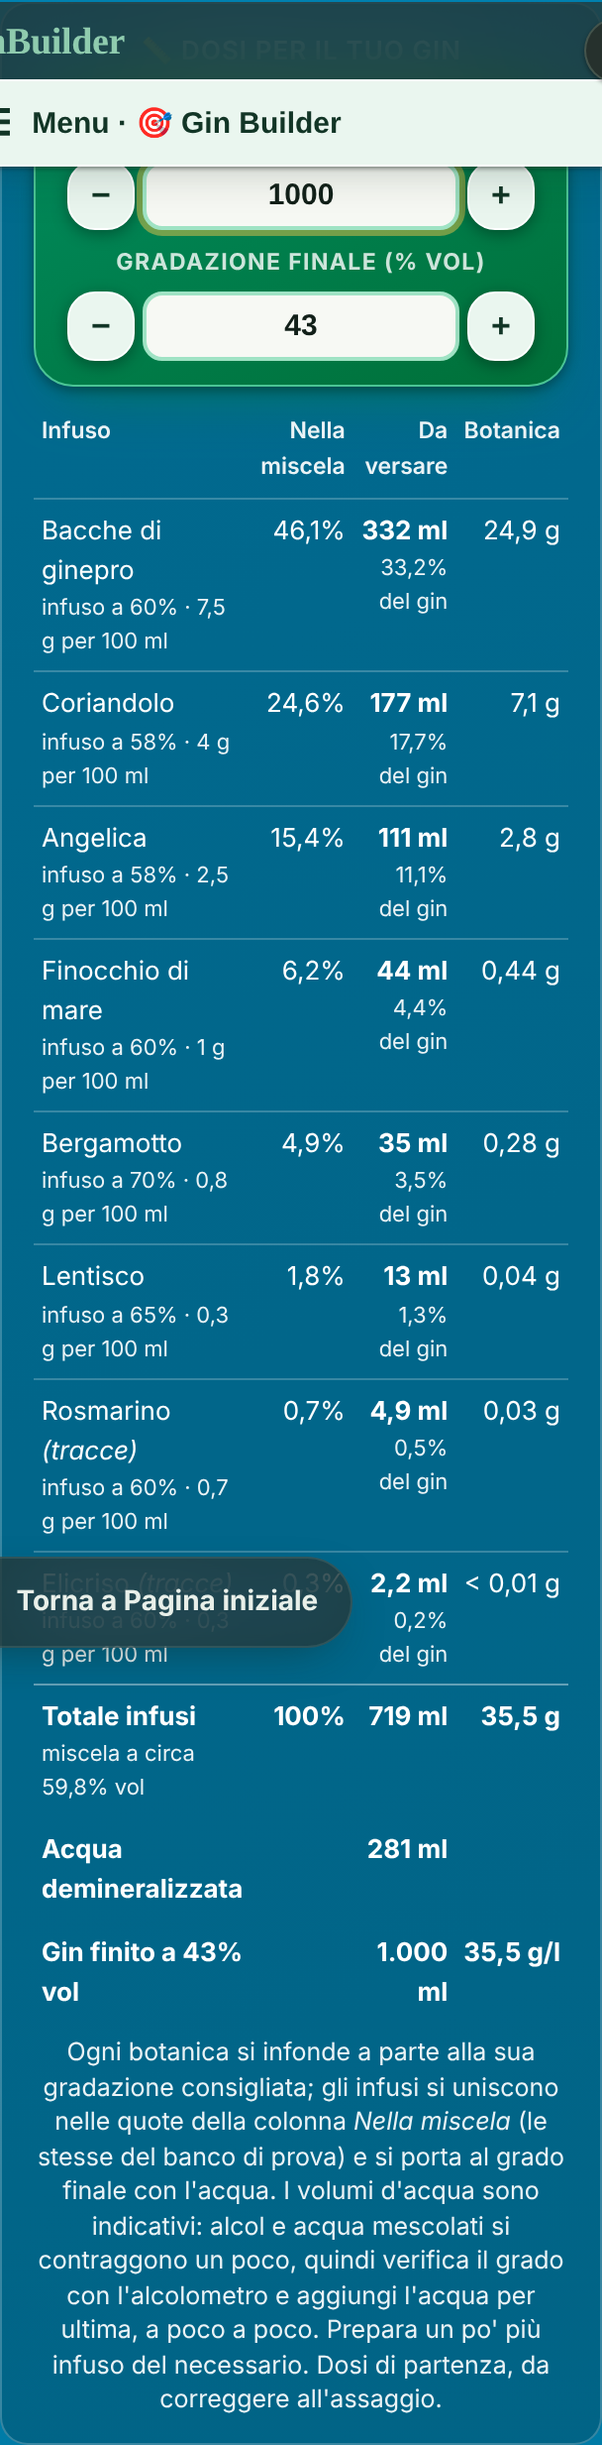
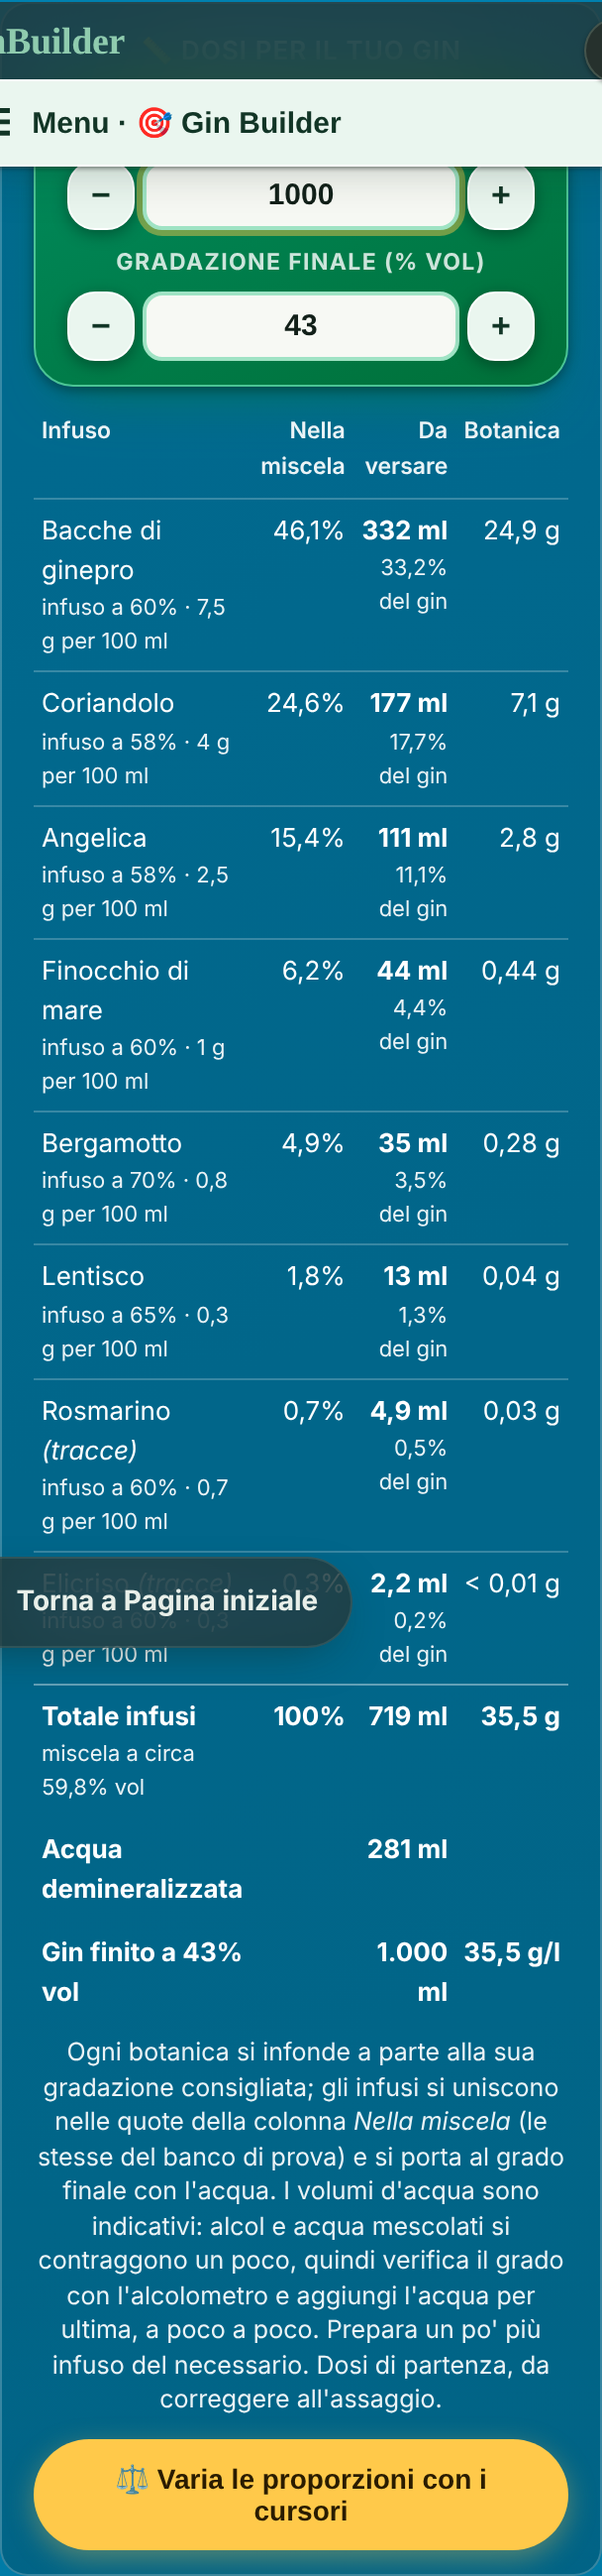
Nuova pagina Proporzioni della ricetta
Cursori per la quota di ogni infuso (le altre si adeguano, lucchetto per
tenerne ferma una), torta, radar di gusto e aroma e radar delle sensazioni
che cambiano insieme rispetto alla ricetta di partenza; ml e grammi per il
volume di gin scelto; invio al banco di prova.

Claude-Session: https://claude.ai/code/session_01EprC9dfrThLCe9VsUBHgpw

diff --git a/index.html b/index.html
@@ -594,6 +594,40 @@ section.panel.active{display:block;animation:panelIn .34s var(--ease) both;}
 }
 .avviso-azioni{display:flex;gap:10px;flex-wrap:wrap;margin-top:22px;justify-content:flex-end;}
 select.sel-fissa{opacity:1;cursor:default;background-image:none;-webkit-appearance:none;appearance:none;}
+/* Proporzioni */
+.pp-head{display:flex;flex-wrap:wrap;align-items:center;justify-content:space-between;gap:8px;margin:6px 0 10px;}
+.pp-tit{font-weight:700;font-size:16px;}
+.pp-azioni{display:flex;flex-wrap:wrap;gap:8px;}
+.pp-grafici{position:sticky;top:var(--pp-top,96px);z-index:5;background:var(--surface);border:1px solid var(--line);border-radius:16px;padding:8px 10px 6px;margin-bottom:12px;box-shadow:0 6px 16px rgba(0,0,0,.18);}
+.pp-scelta{display:flex;gap:6px;justify-content:center;margin-bottom:4px;}
+.pp-tab{flex:1;font:inherit;font-size:12.5px;font-weight:650;padding:5px 4px;border-radius:999px;border:1px solid var(--line);background:transparent;color:var(--ink-soft);cursor:pointer;}
+.pp-tab[aria-pressed="true"]{background:var(--juniper);border-color:var(--juniper);color:#fff;}
+.pp-tre{display:block;}
+.pp-g{display:none;text-align:center;}
+.pp-g.on{display:block;}
+.pp-gt{display:none;font-size:12px;font-weight:650;color:var(--ink-soft);text-transform:uppercase;letter-spacing:.05em;}
+.pp-g svg{width:100%;max-width:300px;height:auto;max-height:min(30vh,240px);display:block;margin:0 auto;}
+.pp-g .radar-wrap{margin:0;}
+@media (min-width:900px){ .pp-g svg{max-height:260px;} }
+.pp-g .radar-sottr-btn, .pp-g .radar-nota, .pp-g .pot-leg, .pp-g .pot-tua{display:none !important;}
+.pp-ginepro{font-size:12.5px;text-align:center;margin-top:2px;}
+@media (min-width:900px){
+  .pp-scelta{display:none;}
+  .pp-tre{display:grid;grid-template-columns:repeat(3,1fr);gap:10px;}
+  .pp-g{display:block;} .pp-gt{display:block;}
+}
+.pp-riga{display:grid;grid-template-columns:14px minmax(0,1fr) auto auto;align-items:center;gap:4px 8px;padding:8px 0;border-bottom:1px solid var(--line);}
+.pp-dot{width:12px;height:12px;border-radius:50%;}
+.pp-nome{font-weight:600;font-size:14px;min-width:0;}
+.pp-nome small{display:block;font-weight:400;color:var(--ink-soft);font-size:11.5px;}
+.pp-val{font-weight:700;font-size:15px;text-align:right;white-space:nowrap;}
+.pp-val small{display:block;font-weight:400;color:var(--ink-soft);font-size:11.5px;}
+.pp-lock{background:none;border:1px solid var(--line);border-radius:10px;padding:4px 7px;font-size:15px;cursor:pointer;opacity:.55;}
+.pp-lock[aria-pressed="true"]{opacity:1;border-color:var(--juniper);}
+.pp-riga input[type=range]{grid-column:1/-1;width:100%;accent-color:var(--pc,var(--juniper));}
+.pp-riga.ferma input[type=range]{opacity:.45;}
+.pp-totali{margin-top:10px;font-size:13.5px;}
+.pp-totali .mix-line{display:flex;justify-content:space-between;gap:10px;padding:4px 0;}
 .dosi-box{text-align:left;}
 .dosi-box .radar-title{text-align:center;}
 .cond-box.dosi-cond{display:grid;grid-template-columns:1fr;gap:8px;margin:8px 0;}
@@ -2065,6 +2099,7 @@ html details.howto a{color:#5A3E1C;}
     <button data-tab="home" class="active">🏠 Pagina iniziale</button>
     <button data-tab="storia">📖 Storia del gin</button>
     <button data-tab="builder">🎯 Gin Builder</button>
+    <button data-tab="proporzioni">⚖ Proporzioni della ricetta</button>
     <button data-tab="ridondanza">🧬 Ridondanze e complementari</button>
     <button data-tab="prove">🧪 Schede di prova</button>
     <button data-tab="libreria">🌿 Botaniche e infusi</button>
@@ -3053,6 +3088,7 @@ html details.howto a{color:#5A3E1C;}
           <label>Gradazione finale (% vol)<input type="number" id="dosi-abv" value="43" min="37.5" max="70" step="0.5" inputmode="decimal"></label>
         </div>
         <div id="dosi-out"></div>
+        <button type="button" class="primary-btn" style="margin-top:10px;width:100%;" onclick="showTab('proporzioni')">⚖ Varia le proporzioni con i cursori</button>
       </div>
       <div id="build-radar"></div>
       <div id="build-garnish"></div>
@@ -3064,6 +3100,48 @@ html details.howto a{color:#5A3E1C;}
         <button class="ghost-btn" id="print-builder">🖨 Stampa combinazione</button>
         <button class="ghost-btn" id="prepara-infusi" type="button" onclick="preparaInfusiRicetta()">📓 Prepara gli infusi della ricetta</button>
       </div>
+    </div>
+  </section>
+
+  <!-- PROPORZIONI -->
+  <section class="panel" id="panel-proporzioni">
+    <details class="howto">
+      <summary>Come si usa</summary>
+      <div class="howto-body">
+        <ul>
+          <li>La pagina parte dalla ricetta che hai nel <strong>Gin Builder</strong>, con le quote degli infusi della tabella <em>Dosi per il tuo gin</em>.</li>
+          <li>Sposta un cursore: quella botanica cambia e le altre si adeguano in proporzione, così il totale resta 100%. Il lucchetto 🔒 tiene ferma una botanica mentre muovi le altre.</li>
+          <li>In alto la <strong>torta</strong> mostra le quote; sotto, scegli il radar di <strong>gusto e aroma</strong> o quello delle <strong>sensazioni in bocca</strong>. La linea tratteggiata è la ricetta di partenza: vedi subito che cosa hai spostato. Su schermo largo i tre grafici stanno affiancati.</li>
+          <li>Accanto a ogni cursore trovi i millilitri di infuso per il volume di gin scelto; in fondo, il totale e l'acqua per arrivare alla gradazione finale.</li>
+        </ul>
+        <p>Il radar di gusto e aroma comprende qui anche le botaniche base (ginepro, coriandolo, angelica), perché sono proprio le quote che stai variando. Stime orientative, da verificare all'assaggio.</p>
+      </div>
+    </details>
+    <div class="pp-head">
+      <div class="pp-tit" id="pp-tit">—</div>
+      <div class="pp-azioni">
+        <button type="button" class="ghost-btn" id="pp-ricarica">↻ Ricarica dal Builder</button>
+        <button type="button" class="ghost-btn" id="pp-reset">↺ Quote di partenza</button>
+      </div>
+    </div>
+    <div class="pp-grafici" id="pp-grafici">
+      <div class="pp-scelta" role="group" aria-label="Grafico da vedere">
+        <button type="button" class="pp-tab" data-g="torta" aria-pressed="true">Torta</button>
+        <button type="button" class="pp-tab" data-g="gusto" aria-pressed="false">Gusto e aroma</button>
+        <button type="button" class="pp-tab" data-g="sens" aria-pressed="false">Sensazioni</button>
+      </div>
+      <div class="pp-tre">
+        <div class="pp-g" data-g="torta"><div class="pp-gt">Quote degli infusi</div><div id="pp-torta"></div></div>
+        <div class="pp-g" data-g="gusto"><div class="pp-gt">Gusto e aroma</div><div id="pp-gusto"></div></div>
+        <div class="pp-g" data-g="sens"><div class="pp-gt">Sensazioni in bocca</div><div id="pp-sens"></div></div>
+      </div>
+      <div class="pp-ginepro" id="pp-ginepro"></div>
+    </div>
+    <div class="pp-cursori" id="pp-cursori"></div>
+    <div class="pp-totali" id="pp-totali"></div>
+    <div class="pp-azioni" style="margin-top:12px;">
+      <button type="button" class="primary-btn" id="pp-banco">🧪 Invia al banco di prova con queste quote</button>
+      <button type="button" class="ghost-btn" onclick="showTab('builder')">← Torna al Gin Builder</button>
     </div>
   </section>
 
@@ -3648,7 +3726,7 @@ html details.howto a{color:#5A3E1C;}
   </section>
 
   <footer class="note">
-    <span id="ver-stamp" style="display:block;margin-bottom:6px;font-weight:600;">Versione 13 ottobre 2026, ore 14:45 · Dosi per il volume di gin finale</span>
+    <span id="ver-stamp" style="display:block;margin-bottom:6px;font-weight:600;">Versione 13 ottobre 2026, ore 15:00 · Proporzioni con cursori, torta e radar</span>
     Le dosi e i tempi sono punti di partenza organolettici basati sulla libreria botanica; vanno sempre
     validati con assaggi comparativi. Le relazioni di ridondanza e complementarietà sono stime qualitative,
     non un giudizio definitivo. Le schede di prova sono salvate solo su questo dispositivo/browser (nessun
@@ -4707,6 +4785,7 @@ document.querySelectorAll('nav.tabs button').forEach(btn => {
   // Le pagine restanti si presentano raggruppate, dalla più utile mentre si costruisce
   // una ricetta alle pagine di approfondimento/riferimento, invece che nell'ordine dei tab.
   const GROUPS = [
+    { label: 'La ricetta', tabs: ['proporzioni'] },
     { label: 'Prima di costruire', tabs: ['ridondanza'] },
     { label: 'Il servizio', tabs: ['garnish', 'toniche'] },
     { label: 'Special', tabs: ['special'] },
@@ -9057,6 +9136,147 @@ function renderDosiGin(selects){
     '<div class="radar-nota">Ogni botanica si infonde a parte alla sua gradazione consigliata; gli infusi si uniscono nelle quote della colonna <em>Nella miscela</em> (le stesse del banco di prova) e si porta al grado finale con l\'acqua. I volumi d\'acqua sono indicativi: alcol e acqua mescolati si contraggono un poco, quindi verifica il grado con l\'alcolometro e aggiungi l\'acqua per ultima, a poco a poco. Prepara un po\' più infuso del necessario. Dosi di partenza, da correggere all\'assaggio.</div>';
 }
 
+// ---------- Proporzioni: cursori, torta e radar che cambiano insieme ----------
+(function(){
+  const PAL = ['#2F7259','#C4803A','#4C7BB5','#B04A6B','#8A63B0','#B8921F','#2F8F8F','#6F8A2E','#C0583E','#5D6F8C','#D9A441','#7A5A3A','#3FB0D6','#A3195B'];
+  const st = { righe: [], rif: [], q: [], fermo: new Set(), stile: '', firma: '', grafico: 'torta' };
+  const $ = id => document.getElementById(id);
+  // cursore non lineare: le quote piccole (tracce) restano regolabili con precisione
+  const aPos = q => Math.round(Math.sqrt(Math.max(0, q) / 100) * 1000);
+  const daPos = p => Math.pow(p / 1000, 2) * 100;
+  const fq = q => q >= 10 ? nf(q, 0) : nf(q, 1);
+  function carica(){
+    const sel = roleList.querySelectorAll('select:not(.role-label-input)');
+    const R = dosiRicetta(sel);
+    if (!R){ st.righe = []; return; }
+    st.righe = R.righe.map((r, k) => Object.assign({}, r, { col: r.n === 'Bacche di ginepro' ? '#2F7259' : PAL[(k + 1) % PAL.length] }));
+    st.rif = st.righe.map(r => r.quota * 100);
+    st.q = st.rif.slice(); st.fermo = new Set(); st.stile = currentStyleName;
+    st.firma = st.righe.map(r => r.n).join('|');
+    disegnaCursori(); aggiorna();
+  }
+  function imposta(i, q){
+    const n = st.q.length; q = Math.max(0, Math.min(100, q));
+    const fissi = [...st.fermo].filter(k => k !== i), sommaF = fissi.reduce((a, k) => a + st.q[k], 0);
+    q = Math.min(q, 100 - sommaF);
+    const liberi = st.q.map((_, k) => k).filter(k => k !== i && !st.fermo.has(k));
+    const resto = 100 - sommaF - q, sommaL = liberi.reduce((a, k) => a + st.q[k], 0);
+    if (!liberi.length){ q = 100 - sommaF; }
+    else liberi.forEach(k => { st.q[k] = sommaL > 0 ? st.q[k] * resto / sommaL : resto / liberi.length; });
+    st.q[i] = q;
+  }
+  function el(){ return st.righe.map((r, k) => ({ n: r.n, w: Math.max(0.00001, st.q[k]) })); }
+  function profilo(pesi){
+    const tot = pesi.reduce((a, x) => a + x.w, 0) || 1;
+    return ASSI8.map((_, i) => pesi.reduce((a, x) => a + ((PROFILO8[x.n] || [])[i] || 0) * x.w, 0) / tot);
+  }
+  function torta(){
+    const c = 110, R = 100, r0 = 52; let a0 = -Math.PI / 2, g = '';
+    st.q.forEach((q, k) => {
+      if (q <= 0.05) return;
+      const a1 = a0 + q / 100 * 2 * Math.PI, big = a1 - a0 > Math.PI ? 1 : 0;
+      const P = (a, rr) => (c + rr * Math.cos(a)).toFixed(2) + ' ' + (c + rr * Math.sin(a)).toFixed(2);
+      g += q >= 99.95 ? '<circle cx="' + c + '" cy="' + c + '" r="' + ((R + r0) / 2) + '" fill="none" stroke="' + st.righe[k].col + '" stroke-width="' + (R - r0) + '"/>'
+        : '<path d="M ' + P(a0, R) + ' A ' + R + ' ' + R + ' 0 ' + big + ' 1 ' + P(a1, R) + ' L ' + P(a1, r0) + ' A ' + r0 + ' ' + r0 + ' 0 ' + big + ' 0 ' + P(a0, r0) + ' Z" fill="' + st.righe[k].col + '" stroke="var(--surface)" stroke-width="1.5"><title>' + st.righe[k].n + ' ' + fq(q) + '%</title></path>';
+      if (q >= 6){ const am = (a0 + a1) / 2, rr = (R + r0) / 2;
+        g += '<text x="' + (c + rr * Math.cos(am)).toFixed(1) + '" y="' + (c + rr * Math.sin(am) + 4).toFixed(1) + '" text-anchor="middle" font-size="12" font-weight="700" fill="#fff">' + Math.round(q) + '%</text>'; }
+      a0 = a1;
+    });
+    const gi = st.righe.findIndex(r => r.n === 'Bacche di ginepro');
+    g += '<text x="' + c + '" y="' + (c - 4) + '" text-anchor="middle" font-size="11" fill="var(--ink-soft)">ginepro</text>' +
+         '<text x="' + c + '" y="' + (c + 16) + '" text-anchor="middle" font-size="18" font-weight="700" fill="var(--ink)">' + (gi >= 0 ? Math.round(st.q[gi]) : 0) + '%</text>';
+    return '<svg viewBox="0 0 220 220" role="img" aria-label="Quote degli infusi">' + g + '</svg>';
+  }
+  function aggiorna(){
+    const box = $('pp-cursori'); if (!box) return;
+    if (!st.righe.length){ $('pp-torta').innerHTML = ''; $('pp-gusto').innerHTML = ''; $('pp-sens').innerHTML = ''; $('pp-totali').innerHTML = ''; $('pp-ginepro').textContent = ''; return; }
+    // valori e millilitri accanto ai cursori
+    const vol = Math.max(10, parseFloat($('dosi-vol').value) || 700);
+    const abvF = Math.min(70, Math.max(1, parseFloat(String($('dosi-abv').value).replace(',', '.')) || 43));
+    const abvMix = st.righe.reduce((a, r, k) => a + st.q[k] / 100 * r.abv, 0);
+    const volInf = abvMix > abvF ? vol * abvF / abvMix : vol;
+    let gTot = 0;
+    st.righe.forEach((r, k) => {
+      const ml = volInf * st.q[k] / 100, g = r.g100 * ml / 100; gTot += g;
+      const row = box.querySelector('.pp-riga[data-k="' + k + '"]'); if (!row) return;
+      row.querySelector('.pp-val').innerHTML = fq(st.q[k]) + '%<small>' + nf(ml, ml < 10 ? 1 : 0) + ' ml · ' + (g > 0 && g < 0.01 ? '< 0,01' : nf(g, g < 1 ? 2 : 1)) + ' g</small>';
+      const rg = row.querySelector('input[type=range]'); if (document.activeElement !== rg) rg.value = aPos(st.q[k]);
+    });
+    $('pp-totali').innerHTML = '<div class="mix-line"><span>Infusi (miscela a circa ' + nf(abvMix, 1) + '% vol)</span><strong>' + nf(volInf, 0) + ' ml</strong></div>' +
+      (vol - volInf > 0.5 ? '<div class="mix-line"><span>Acqua demineralizzata</span><strong>' + nf(vol - volInf, 0) + ' ml</strong></div>' : '') +
+      '<div class="mix-line"><span>Gin finito a ' + nf(abvF, 1) + '% vol</span><strong>' + nf(vol, 0) + ' ml · ' + nf(gTot / vol * 1000, 1) + ' g/l di botaniche</strong></div>' +
+      (abvMix < abvF ? '<div class="warn-box">La miscela di infusi è sotto la gradazione finale scelta: serve alcol neutro o infusi più forti.</div>' : '') +
+      '<div class="radar-nota">Volume e gradazione si cambiano nel Gin Builder, in <em>Dosi per il tuo gin</em>. Acqua indicativa: verifica con l\'alcolometro.</div>';
+    // quota di ginepro
+    const gi = st.righe.findIndex(r => r.n === 'Bacche di ginepro'), pg = gi >= 0 ? st.q[gi] : 0;
+    const col = pg >= 45 ? 'var(--green-sym, #2e7d32)' : (pg >= 30 ? 'var(--orange-sym, #b26a00)' : 'var(--red-sym, #c62828)');
+    $('pp-ginepro').innerHTML = '<span style="color:' + col + ';font-weight:650">Ginepro ' + fq(pg) + '%</span>' + (pg < 30 ? ' · troppo poco: il ginepro deve restare la nota prevalente' : pg < 45 ? ' · al limite: il ginepro rischia di non prevalere' : '');
+    // grafici
+    $('pp-torta').innerHTML = torta();
+    const ora = profilo(el()), prima = profilo(st.righe.map((r, k) => ({ n: r.n, w: Math.max(0.00001, st.rif[k]) })));
+    const mx = Math.max.apply(null, prima.concat(ora)) || 1, s5 = v => v.map(x => Math.round(x / mx * 50) / 10);
+    $('pp-gusto').innerHTML = radarSVG([{vals: s5(prima), color: 'var(--ink-soft)', label: 'Partenza', dash: true}, {vals: s5(ora), color: 'var(--juniper)', label: 'Ora'}], 280);
+    const sOra = sensMiscela(el()), sPrima = sensMiscela(st.righe.map((r, k) => ({ n: r.n, w: Math.max(0.00001, st.rif[k]) })));
+    $('pp-sens').innerHTML = sOra ? radarSensSVG([{vals: sPrima, color: 'var(--ink-soft)', label: 'Partenza', dash: true}, {vals: sOra, color: SENS_COL, label: 'Ora'}], 260) : '';
+  }
+  function disegnaCursori(){
+    const box = $('pp-cursori'); if (!box) return;
+    $('pp-tit').textContent = st.righe.length ? (st.stile || 'Ricetta') + ' · ' + st.righe.length + ' botaniche' : 'Nessuna ricetta';
+    if (!st.righe.length){ box.innerHTML = '<div class="radar-nota">Nel Gin Builder non c\'è ancora una ricetta: scegli uno stile e torna qui.</div>'; return; }
+    box.innerHTML = st.righe.map((r, k) =>
+      '<div class="pp-riga' + (st.fermo.has(k) ? ' ferma' : '') + '" data-k="' + k + '" style="--pc:' + r.col + '">' +
+      '<span class="pp-dot" style="background:' + r.col + '"></span>' +
+      '<span class="pp-nome">' + r.n + (r.tracce ? ' <em>(tracce)</em>' : '') + '<small>partenza ' + fq(st.rif[k]) + '% · infuso a ' + r.abv + '%</small></span>' +
+      '<span class="pp-val"></span>' +
+      '<button type="button" class="pp-lock" aria-pressed="' + st.fermo.has(k) + '" title="Tieni ferma questa botanica">' + (st.fermo.has(k) ? '🔒' : '🔓') + '</button>' +
+      '<input type="range" min="0" max="1000" step="1" value="' + aPos(st.q[k]) + '" aria-label="Quota di ' + r.n.replace(/"/g, '') + '"' + (st.fermo.has(k) ? ' disabled' : '') + '>' +
+      '</div>').join('');
+    box.querySelectorAll('.pp-riga').forEach(row => {
+      const k = +row.dataset.k;
+      row.querySelector('input[type=range]').addEventListener('input', e => { imposta(k, daPos(+e.target.value)); aggiorna(); });
+      row.querySelector('.pp-lock').addEventListener('click', () => { if (st.fermo.has(k)) st.fermo.delete(k); else st.fermo.add(k); disegnaCursori(); aggiorna(); });
+    });
+  }
+  function scegliGrafico(g){
+    st.grafico = g;
+    document.querySelectorAll('#pp-grafici .pp-scelta .pp-tab').forEach(b => b.setAttribute('aria-pressed', b.dataset.g === g));
+    document.querySelectorAll('#pp-grafici .pp-g').forEach(d => d.classList.toggle('on', d.dataset.g === g));
+  }
+  document.querySelectorAll('#pp-grafici .pp-scelta .pp-tab').forEach(b => b.addEventListener('click', () => scegliGrafico(b.dataset.g)));
+  scegliGrafico('torta');
+  $('pp-ricarica').addEventListener('click', carica);
+  $('pp-reset').addEventListener('click', () => { st.q = st.rif.slice(); st.fermo = new Set(); disegnaCursori(); aggiorna(); });
+  $('pp-banco').addEventListener('click', () => {
+    if (!st.righe.length) return;
+    showTab('prove'); openForm(null);
+    $('tf-name').value = (st.stile || 'Ricetta') + ' — proporzioni';
+    tfStyleSelect.value = st.stile || '';
+    tfBotaniche.innerHTML = '';
+    st.righe.forEach((r, k) => addBotRow({ botanica: r.n, perc: Math.round(st.q[k] * 10) / 10 }));
+    renderMixSummary();
+  });
+  // aprendo la pagina: se la ricetta del Builder e' cambiata si ricarica, altrimenti restano le quote scelte
+  const st0 = window.showTab;
+  window.showTab = function(n){
+    const r = st0.apply(this, arguments);
+    if (n === 'proporzioni'){
+      const sel = roleList.querySelectorAll('select:not(.role-label-input)');
+      const R = dosiRicetta(sel), firma = R ? R.righe.map(x => x.n).join('|') : '';
+      if (firma !== st.firma || currentStyleName !== st.stile) carica(); else aggiorna();
+      ppTop();
+    }
+    return r;
+  };
+  ['dosi-vol', 'dosi-abv'].forEach(id => $(id).addEventListener('input', () => { if (st.righe.length) aggiorna(); }));
+  // i grafici restano fermi appena sotto la barra del menu (che si accorcia scorrendo)
+  function ppTop(){
+    const h = document.querySelector('.menu-bar'); if (!h) return;
+    document.documentElement.style.setProperty('--pp-top', Math.max(0, Math.round(h.getBoundingClientRect().bottom)) + 6 + 'px');
+  }
+  document.addEventListener('scroll', () => { if (document.getElementById('panel-proporzioni').classList.contains('active')) ppTop(); }, {passive: true, capture: true});
+  window.addEventListener('resize', ppTop);
+})();
+
 document.getElementById('send-to-test').addEventListener('click', () => {
   const selects = roleList.querySelectorAll('select:not(.role-label-input)');
   const styleName = builderTitle.textContent;
@@ -9931,6 +10151,8 @@ if ("serviceWorker" in navigator) {
                    s:'Gli infusi in macerazione, con i promemoria per controllarli e filtrarli al momento giusto.' },
     libreria:    { c:'--c-erbaceo',      k:'Passo 1 di 3',
                    s:'Le schede delle botaniche, con profilo aromatico, radar e zone italiane, e per ognuna la preparazione dell’infuso: gradazione, diluizione, grammi e tempo.' },
+    proporzioni: { c:'--c-mediterraneo', k:'La ricetta',
+                   s:'Sposta i cursori delle botaniche: la torta, il radar di gusto e aroma e quello delle sensazioni cambiano insieme, con i millilitri per il tuo gin.' },
     builder:     { c:'--c-secco',        k:'Passo 2 di 3',
                    s:'Scegli uno stile e assegna le botaniche ai sei ruoli: base, freschezza, identità, cuore, firma, rifinitura.' },
     prove:       { c:'--c-siciliano',    k:'Passo 3 di 3',

diff --git a/service-worker.js b/service-worker.js
@@ -8,7 +8,7 @@
  * l'app continua comunque a funzionare senza connessione.
  */
 
-const VERSIONE = 'ginbuilder-v148';
+const VERSIONE = 'ginbuilder-v149';
 
 const FILE = [
   './',
